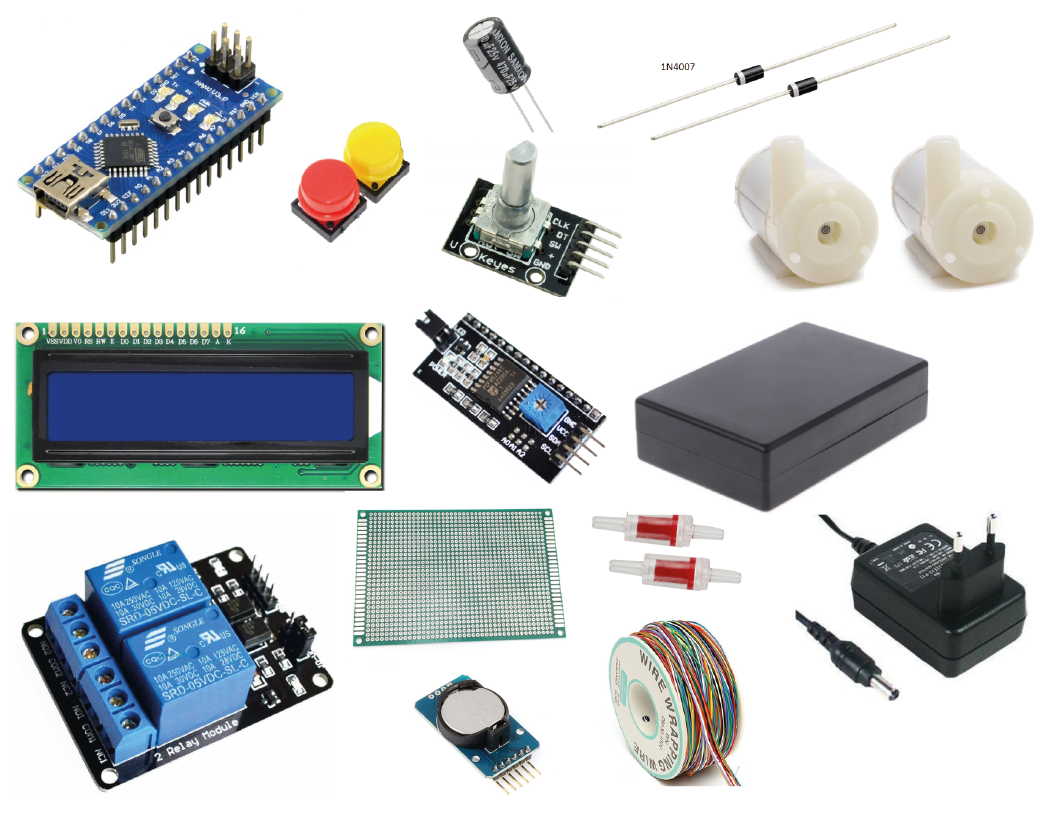
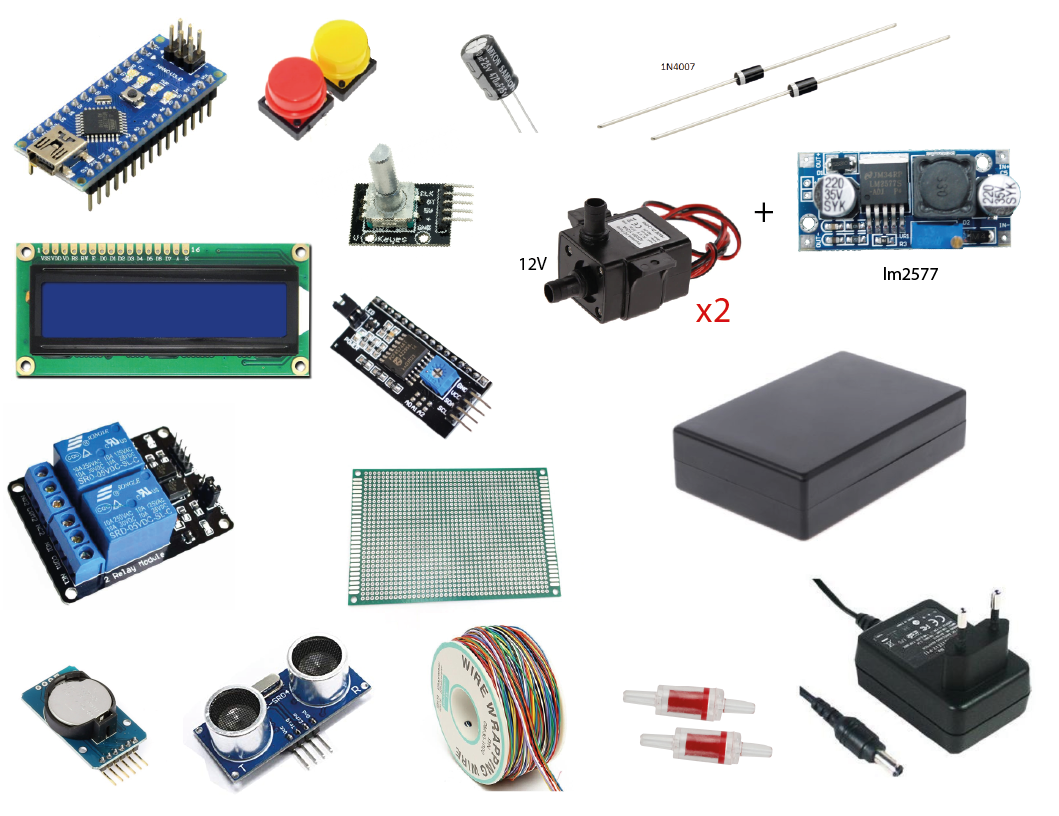
Update README.md and WhatYouNeed screenshot.

diff --git a/README.md b/README.md
@@ -16,11 +16,11 @@ Potentially many pumps could be added but I assembled the circuit and designed t
 ## The main improvements 
 * Object-oriented and readable code, as much as possible
 * Separated file for settings (pins, timeout time etc)
-* Separated menu in the system interface to set working and wating times of pumps
+* Separated menu in the system interface to set working and waiting times of pumps
 * Saving data in Arduino memory (EEPROM) happens when an user leaves menu settings and if changes are
 * Minimum time for a pump to wait is 1 minute, to work - 1 second 
 * Maximum time for a pump to wait is almost 10 days (-1 minute), to work - almost 1 day (-1 second) 
-* Forse start/stop pumps by buttons commands (double click, hold press/release)
+* Force start/stop pumps by buttons commands (double click, hold press/release)
 * Different timers display remaining time to change a pump state, force start timer in seconds 
 * Save timestamp (in seconds) of last pumps watering (added in version 1.1)
 * Use HC-SR04 Ultrasonic Sensor to determine the fullness of the water tank  **(added in version 1.2)**
@@ -33,7 +33,7 @@ Potentially many pumps could be added but I assembled the circuit and designed t
 * Lcd1602 module with I2C
 * Rotary encoder
 * Buttons x2
-* Pumps (5V) x2 **(than I used 12V pumps + step up converter)**
+* Pumps (12V) x2 + lm2577 step up converter **(or use 5V without converter)**
 * Power supply (5V)
 * Wires to connect, circuit board
 * Box
